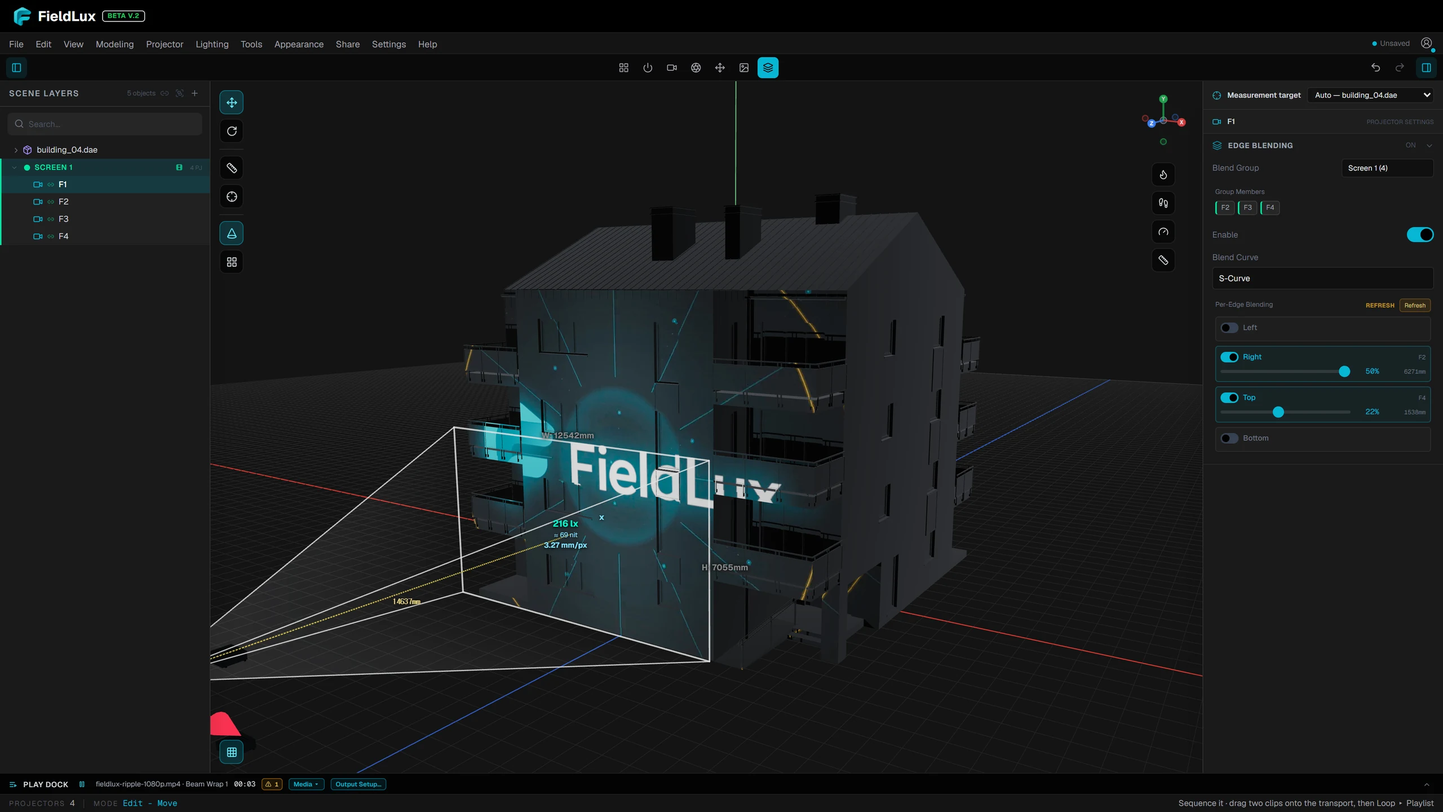
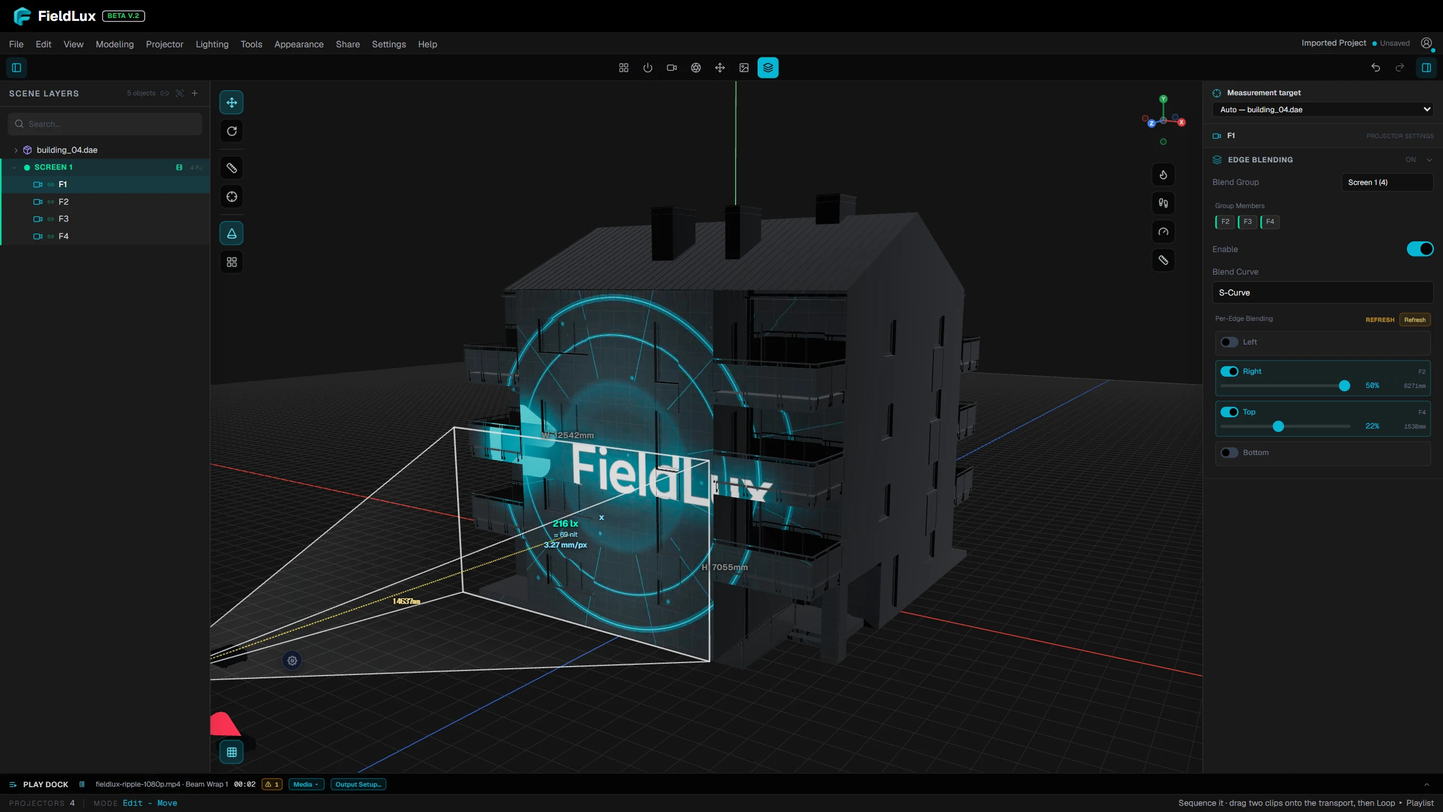
media(site): retake every app screenshot; fix 18 how-to steps from a fresh review
Screenshots
- All twelve were retaken on the current app build with the same demo
  scene, camera and 2560x1440 framing as the September set, on a real GPU.
- What changed on screen: Lock position replaces Lock Transform, the
  Placement Tool says Place projectors, the project name sits in the menu
  bar, the Play Dock console shows the 1 Outputs to 6 Show workflow row,
  the Heatmap panel has its legend key and the 13pt distribution card, and
  the Norm ramp marks the 0.9x to 1.1x band.
- The heatmap values shot moves F1 0.5 m so all 13 probes land on the
  facade; the card it shows (U 0.79, Correction Required) is the app's own
  reading. Panel crops are now 512 px wide; width and height match.
- Alt text follows the new images (edge blend 50 and 22 percent, the Play
  Dock workflow steps, the model settings, the distribution card).

How-to chapters (each claim re-checked against the app code)
- 01 sign-up flow; 02 up-axis toast; 03 scale needs Enter, the import
  already opens edit mode (Tab leaves it), Shift+click adds lines, typed
  lengths add a point and a second Enter ends the run; 06 the Out-of-spec
  card only exists for heads with a catalogue distance range; 07 match
  axes copy the active (last clicked) head; 08 Mirror and Match brightness
  live in mismatch notes.
- 11 scrims and rear-projection presets also change lux; 12 Output Setup is
  on the collapsed strip, Fit canvas to beams sits in the amber note; 13
[…]

diff --git a/videos.html b/videos.html
@@ -112,7 +112,7 @@
             <span class="v3-slot-note">Video in production</span>
           </div>
           <ol class="v3-howto v3-howto--cols">
-            <li>Open app.field-lux.com and sign in with your email and password, or choose Continue with Google. To create an account, choose Create account, select your role and enter the six-digit code from the verification email.</li>
+            <li>Open app.field-lux.com and sign in with your email and password, or choose Continue with Google. To create an account, choose Create account, fill in the form and your role, click Email verification code, then enter the six-digit code from the email.</li>
             <li>The Projects page opens with three tiles: New Project, Open FieldLux Test Scene and Open Play Dock Demo. Saved projects are listed below them. Delete moves a project to Trash, where you can restore it for 30 days.</li>
             <li>Click Open FieldLux Test Scene to get a working four-projector facade without importing anything. The copy is yours; the shared source never changes.</li>
             <li>Click New Project, type a project name when asked and click OK. The blank project is saved under that name and opens in the editor. Press Ctrl+O at any time to come back to Projects.</li>
@@ -136,7 +136,7 @@
           </div>
           <ol class="v3-howto v3-howto--cols">
             <li>Open File, choose Import 3D Model and select one .fbx, .obj, .glb, .dae, .stl or .ply file. For .gltf, include its .bin file and textures in the same picker, or export a single .glb instead.</li>
-            <li>Wait for the import progress modal. A toast reports how the unit was detected and, if the up axis was ambiguous, which one was used.</li>
+            <li>Wait for the import progress modal. A toast reports how the unit was detected and, if the file does not state its up axis, reminds you to check Up axis.</li>
             <li>The model keeps the coordinates it was authored with and is selected. In the Inspector, open 3D Model to check File, Size, Vertices, Source unit and Dimensions.</li>
             <li>If the model lies on its side, open Source Orientation and click Z-up (Blender, 3ds Max) or X-up. Click Center on bbox under Origin to centre it on the scene origin, standing on the ground grid.</li>
           </ol>
@@ -159,11 +159,11 @@
           </div>
           <ol class="v3-howto v3-howto--cols">
             <li>Open File, choose Import Floor Plan and add a .dwg, .dxf, PDF, PNG or JPG. A DWG is converted in the browser, and a multi-sheet drawing asks which sheet you want.</li>
-            <li>In Set the scale, click Use this to accept the unit read from the file, or click two points a known distance apart and type the real length. For an image, type its overall width or height; for a PDF you can also pick 1:50, 1:100 or 1:200.</li>
+            <li>In Set the scale, click Use this to accept the unit read from the file, or click two points a known distance apart, type the real length and press Enter. For an image, type its overall width or height and press Enter; for a PDF you can also pick 1:50, 1:100 or 1:200.</li>
             <li>Click Import as reference lines. The plan appears in 3D as locked reference lines. For an image or PDF, click Place in 3D scene instead; it lands on the ground at the size you typed.</li>
-            <li>Select the drawing and press Tab (Modeling &gt; Edit Linework). Press 2 to select lines, click the walls you want, then click Trace selected to my sketch in the Build group.</li>
+            <li>The import opens the drawing in edit mode (later, select it and press Tab, or choose Modeling &gt; Edit Linework). Press 2, Shift+click the walls you want, then click Trace selected to my sketch in the Build group.</li>
             <li>With the traced lines selected, set Wall height and Wall thickness in the Inspector's Cleanup section, press W, then Enter. The lines rise into walls that receive projector light and cast shadows.</li>
-            <li>To work without a drawing, open Modeling and choose New Sketch. Press 3 for the Draw tool, click to place points, type a length such as 5m while drawing, press Enter to finish the run, then press W and Enter to raise the walls.</li>
+            <li>To work without a drawing, open Modeling and choose New Sketch; the Draw tool is already on. Click to place points, type a length such as 5m and press Enter to add that point, press Enter again to finish the run, then press W and Enter to raise the walls.</li>
           </ol>
           <p class="v3-howto-sees"><strong>You will see:</strong> a full-screen Import Floor Plan overlay with a scale chip, then a linework row in Scene Layers; in edit mode the top strip becomes the Modelling tools toolbar (Select, Draw, Modify, Cleanup, Build) and the prompt strip at the bottom describes the next click. Walls that render black are facing away: select them and click Modeling &gt; Flip Normals.</p>
         </article>
@@ -240,7 +240,7 @@
             <li>At the bottom of Optics, drag V Shift and H Shift to move the image without tilting the projector. The limits are the lens's own. Click Reset Shift to Home to return.</li>
             <li>Use Projector Controls at the top of the panel to switch Power or Beam Preview off, or click Lock position so the projector cannot be moved.</li>
           </ol>
-          <p class="v3-howto-sees"><strong>You will see:</strong> a red, green and blue gizmo on the projector, the beam frustum and its W and H labels moving on the surface, and the Optics readouts changing on every commit. A head placed outside its catalogue throw range gets an amber Out-of-spec diagnostic model card with struck-through values.</p>
+          <p class="v3-howto-sees"><strong>You will see:</strong> a red, green and blue gizmo on the projector, the beam frustum and its W and H labels moving on the surface, and the Optics readouts changing on every commit. A head whose catalogue lists a distance range, such as the Epson EB-800F, gets an amber Out-of-spec diagnostic model card with struck-through values when placed outside it.</p>
         </article>
       </div>
     </section>
@@ -262,7 +262,7 @@
             <li>Choose Linear, Circular or Symmetry. For Linear, set Count, Spacing, Axis and whether the selected projector is First, Center or Last. For Circular, set Count, Radius, Arc and Aim. For Symmetry, set the Mirror axis, Plane and Gap.</li>
             <li>Keep Live ghost preview ticked. Ghost projectors appear in the 3D view and in the Coordinate Table, which lists X, Y and Z for every unit.</li>
             <li>Click Place projectors to create real, individually editable projectors, or Start Live to keep the copies linked as an array that follows the source. A Circular ring on the default Group center pivot follows its Array Pivot node instead. Bake a live array later with Bake array in the Inspector's Array section.</li>
-            <li>To align heads to each other, Ctrl+Click two or more projectors, click Show projector match axes in the tool rail, and click X, Y, Z or XYZ under Move or Rotate.</li>
+            <li>To align heads to each other, Ctrl+Click two or more projectors, clicking the reference head last, then click Show projector match axes in the tool rail and X, Y, Z or XYZ under Move or Rotate.</li>
           </ol>
           <p class="v3-howto-sees"><strong>You will see:</strong> ghost projectors and a Coordinate Table in the tool window, then the new projectors in Scene Layers. Two or more placed heads are put in a blend group automatically. Each live copy shows an Array section marked Copy in the Inspector, with Position set to Follows array and Equipment set to Same as source; set either to Own to change that copy alone.</p>
         </article>
@@ -286,7 +286,7 @@
             <li>Select one member and scroll the Inspector to Edge Blending. Switch Enable on; this runs Auto-Blend for the group.</li>
             <li>Auto-Blend measures where the beams overlap on the surface and turns on the matching edges, Left, Right, Top or Bottom, with their overlap percentages and the partner's name. Click Auto-Blend to run it again.</li>
             <li>Drag an edge slider to adjust the feather from 0 to 50 percent; the readout shows percent and the feather width in your display unit. Pick a Blend Curve: Linear, Gamma 2.2 or S-Curve.</li>
-            <li>If you move a projector afterwards, the Stale badge appears. Click Recalculate. Use Mirror to copy your feather width to the partner, or Match brightness to equalise the two heads.</li>
+            <li>If you move a projector afterwards, the Stale badge appears. Click Recalculate. When an amber note on an edge card flags a feather or brightness mismatch, click its Mirror or Match brightness button.</li>
           </ol>
           <p class="v3-howto-sees"><strong>You will see:</strong> four edge cards, with enabled edges turning cyan, and a soft feather across the overlap in the 3D view instead of a doubled bright band. Measured lux stays pre-blend and represents each head at full white.</p>
         </article>
@@ -359,7 +359,7 @@
           </div>
           <ol class="v3-howto v3-howto--cols">
             <li>Select the surface or model, open Appearance and choose Material. In the floating Material window, choose a Library preset such as White Wall, Concrete, Screen/Fabric, Rear Projection or White Scrim.</li>
-            <li>Under Surface set Type, Base color and Glossiness. Under Brightness Response read Reflectance and set Screen gain. These change the Luminance map and the cd/m² readouts only; measured lux never moves. The exception is the Mirror type, which reflects beams onto other surfaces and adds lux where the reflection lands.</li>
+            <li>Under Surface set Type, Base color and Glossiness. Under Brightness Response read Reflectance and set Screen gain. These change the Luminance map and the cd/m² readouts only, with two exceptions that change measured lux: the Mirror type reflects beams onto other surfaces, and see-through presets such as White Scrim and Rear Projection pass part of the beam to the surfaces behind them.</li>
             <li>Click Appearance again. Under Ambient Light pick a preset such as Venue (house lights) or Full Blackout, or type a lux value.</li>
             <li>Read the contrast line below it. FieldLux shows a verdict from Optimal (Full Blackout) to Not viable, plus the CR n:1 ratio calculated as peak projector lux plus ambient, divided by ambient.</li>
             <li>To see the venue lit at that ambient level, click View, then Ambient Light Preview. For a site photo, raise Dimmer in the photo's Inspector section to darken the photo behind the projection.</li>
@@ -384,14 +384,14 @@
             <span class="v3-slot-note">Video in production</span>
           </div>
           <ol class="v3-howto v3-howto--cols">
-            <li>Aim every projector at its wall, floor or model, then choose Output Setup on the Play Dock strip.</li>
+            <li>Aim every projector at its wall, floor or model, then choose Output Setup on the collapsed Play Dock strip. In an open console, the same sheet is Detect surfaces at step 2.</li>
             <li>Under Regions, where your beams land, click a tile to include or skip it, drag to reorder, shift-drag to merge. Choose Auto, One canvas or My groups, and click Rescan after re-aiming. Under Outputs check each projector's region, pick a Source video, then click Apply Setup.</li>
             <li>The console stays open after Apply Setup (otherwise click the Play Dock strip): the workflow steps 1 Outputs to 6 Show along the top, the outputs or surfaces list on the left, the mapping editor in the centre, inspector tabs on the right and the transport at the bottom.</li>
             <li>Choose Media in the header. Drag a built-in loop from Patterns, or one of your uploads from Library, onto a wall in the 3D view or the transport bar. Choose Library to open the full Media Library and upload images or video, with a 1 GB limit per account.</li>
             <li>Press Play, or Space. Open the content chip's menu and click Add clip to build a playlist; use the loop button to cycle Clip, Playlist and Hold. Click Calibration to project a test pattern from every head of the group.</li>
-            <li>In the centre pane, drag the cyan canvas to move the content on the face, drag its corners to resize, or type X, Y, W and H in the Canvas fields. Use Fill face, Fit ratio or Fit canvas to beams.</li>
+            <li>In the centre pane, drag the cyan canvas to move the content on the face, drag its corners to resize, or type X, Y, W and H in the Canvas fields. Use Fill face or Fit ratio, and when a head runs past the canvas, click Fit canvas to beams in the amber note.</li>
           </ol>
-          <p class="v3-howto-sees"><strong>You will see:</strong> an Output Setup sheet with region tiles sized in metres, then a console whose header reads the focused surface, the current step and the slots count, above a workflow row that ticks each finished step. The mapping editor shows a to-scale plan of the face with every head's footprint. Play Dock previews the show in 3D; it does not output to hardware.</p>
+          <p class="v3-howto-sees"><strong>You will see:</strong> an Output Setup sheet with region tiles sized in metres, then a console whose header reads the focused surface, the current step and the slots count, above a workflow row that ticks steps 1 to 4 as you finish them. The mapping editor shows a to-scale plan of the face with every head's footprint. Play Dock previews the show in 3D; it does not output to hardware.</p>
         </article>
       </div>
     </section>
@@ -409,11 +409,11 @@
             <span class="v3-slot-note">Video in production</span>
           </div>
           <ol class="v3-howto v3-howto--cols">
-            <li>Open the Play Dock console, click 4 Soft Edge in the workflow row and pick a surface in the list on the left. From any other step, click Warp &amp; Blend above the mapping editor.</li>
+            <li>Open the Play Dock console, click 4 Soft Edge in the workflow row and pick a surface in the list on the left. From steps 1 to 3, click Warp &amp; Blend above the mapping editor.</li>
             <li>Click a numbered head chip to pick the projector to correct. All shows every head's outline read-only.</li>
             <li>For Corner-pin, drag the four cyan corners to keystone the picture and enable Perspective for a true homography. For Mesh, set the Grid columns and rows, drag the amber interior points and choose Spherize for domes.</li>
             <li>For a Mask, choose New mask and click points in the viewport to draw a feathered polygon, then set Invert and Feather. For Blend, choose Auto-Blend or adjust the left, right, top and bottom sliders, then tune Power, Gamma and Sharpness.</li>
-            <li>Under Calibration, choose grid, crosshair, greyscale or colorbars to display a test pattern on the selected head, or choose All heads for the whole group. Choose None, show content to restore the picture. This is a pattern preview, not an automatic field-calibration solver. Choose Reset to clear the current correction.</li>
+            <li>Under Calibration, choose grid, crosshair, greyscale or colorbars to display a test pattern on the selected head, or choose All heads for the whole group. Choose None, show content to restore the picture. This is a pattern preview, not an automatic field-calibration solver. On the Corner-pin, Mesh or Mask tab, choose Reset to clear that correction.</li>
           </ol>
           <p class="v3-howto-sees"><strong>You will see:</strong> a 2D studio of the head's frame with drag handles, and every corner-pin, mesh warp, mask and soft edge rendering live on the 3D beam. The footer reminds you that measurements never move: warp and blend change the picture, not the lux.</p>
         </article>
@@ -436,7 +436,7 @@
           </div>
           <ol class="v3-howto v3-howto--cols">
             <li>Click Lighting, then a type under Add Fixture: Moving Head Spot, Moving Head Wash, Moving Head Beam, LED PAR / Static Wash, Profile / Ellipsoidal, Fresnel / PC, Flood / Cyc / Blinder or Strobe / Flash. The fixture appears, selected, and the Inspector switches to Light Settings.</li>
-            <li>In the Fixture section pick a source: Quick Type, Catalog (29 datasheet classes), Library, GDTF / MVR (drop a .gdtf for this fixture or a .mvr for the whole rig) or Manual. In Photometrics enter Output in lumens and Beam Angle; read Peak intensity and the lux at the reference distance, both marked estimate.</li>
+            <li>In the Fixture section pick a source: Quick Type, Catalog (29 datasheet classes), Library, GDTF / MVR (click Import .gdtf or .mvr and pick a .gdtf for this fixture or an .mvr for the whole rig) or Manual. In Photometrics enter Output in lumens and Beam Angle; read Peak intensity and the lux at the reference distance, both marked estimate.</li>
             <li>In Beam Preview switch on Beam visible and Light + shadows. Click Import .ies / .ldt to load the manufacturer's photometry. Aim with Pan, Tilt and Dimmer under Position &amp; Aim, or drag the aim handle in 3D.</li>
             <li>Reopen Lighting and click Save Selected Fixture. It is listed under My Fixtures in every project you open in this browser.</li>
             <li>Expand Working Plane (Illuminance), set Plane height and switch on Show isolux in 3D. Read Average, Minimum, Maximum and Uniformity U0, and pick a Target profile for a pass or fail judgment. Under Looks (cues) type a name and click Save look; under Fixture schedule (BOM) click Copy schedule (CSV).</li>
@@ -465,7 +465,7 @@
             <li>Adjust Wind, Direction, Gust and Ventilation to move and clear the cloud. Pick Quality (Low, Medium or High) and Beam visibility.</li>
             <li>Orbit the scene. Projector and fixture beams now glow in the air and projected content is carried through the fog.</li>
           </ol>
-          <p class="v3-howto-sees"><strong>You will see:</strong> a plume from the nozzle, visible light shafts from every projector and fixture, and haze-attenuated walls. Measured lux does not change; the "with fog (est.)" readout is clearly marked as an estimate.</p>
+          <p class="v3-howto-sees"><strong>You will see:</strong> a plume from the nozzle, visible light shafts from up to four projectors and four fixtures (the brightest and nearest to the camera), and haze-attenuated walls. Measured lux does not change; the "with fog (est.)" readout is clearly marked as an estimate.</p>
         </article>
       </div>
     </section>
@@ -487,7 +487,7 @@
           <ol class="v3-howto v3-howto--cols">
             <li>Press Ctrl+S or open File and choose Save. A project started with New Project is already in the cloud under its name. The chip at the right end of the menu bar reads Saving while it works, then the Unsaved dot disappears. Click the project name beside it to rename the project, or choose Save As to name a copy.</li>
             <li>Click Settings and drag the Auto Save slider between 1 and 30 minutes. While the scene is dirty, a cloud version is written at that interval and a local draft is kept in the browser.</li>
-            <li>Open File and choose Version history. Hover over a row and choose Restore. The selected version is restored as a new save, so your current state remains in the history.</li>
+            <li>Open File and choose Version history. Hover over an older row, choose Restore and confirm. The selected version is restored as a new save, so your current state remains in the history.</li>
             <li>Open File and choose Export Project File to download an editable .flx.json. On any machine or account, choose Open Project File to load it, then press Ctrl+S to store it in the cloud.</li>
           </ol>
           <p class="v3-howto-sees"><strong>You will see:</strong> toasts reading Saved, Saved as new project or Restored, saved as a new version; a Version history modal listing saves by time with the newest tagged Current; and a downloaded project.flx.json. Imported 3D model binaries are referenced by cloud URL, not embedded in the file. If another tab or device saved the project after you opened it, the chip warns that it changed elsewhere; click it to choose Reload latest, Save as a copy or Overwrite.</p>
@@ -511,9 +511,9 @@
             <li>Open Share and choose Share. In the Cloud Share block, enter a Link label, choose an expiry of 2, 7, 14 or 30 days or Never, and enable Require a password when needed.</li>
             <li>Under What viewers can do, toggle Allow PDF Tech Rider download, Show my measurements and Allow walk mode.</li>
             <li>Click Create Cloud Share. Click Copy next to the URL, or let the recipient scan the QR code under Scan to open. Recipients open a read-only viewer without signing in.</li>
-            <li>For a scene without imported 3D models, the URL Share block packs the whole scene into the link itself; click Generate URL Share and Copy. Nothing is uploaded.</li>
+            <li>For a small scene without imported 3D models, the URL Share block packs the scene into the link itself; click Generate URL Share and Copy. Nothing is uploaded. A large rig needs a Cloud Share.</li>
             <li>To give a colleague's FieldLux account read-only project access, type their email under FieldLux Account Share and click Share. The project appears in their Projects list, read-only.</li>
-            <li>Open Share and choose Share Management to copy, extend, revoke or delete any link. Extensions are available for 2, 7, 14 or 30 days, or permanently.</li>
+            <li>Open Share and choose Share Management to copy, extend or revoke a link; once revoked, a link can be deleted. Extensions are available for 2, 7, 14 or 30 days, or permanently.</li>
           </ol>
           <p class="v3-howto-sees"><strong>You will see:</strong> the generated URL with a Copy button and a QR code, a toast reading Cloud share created, and in Share Management every link grouped as Active or Expired or revoked with its time left. A revoked link tells the recipient the owner revoked it.</p>
         </article>
@@ -537,7 +537,7 @@
             <li>Click File, then Export PDF Tech Rider. The row greys out while the export runs, and a progress toast with a Cancel button may appear for a large rig.</li>
             <li>Open FieldLux_Tech_Rider_date.pdf from your downloads.</li>
           </ol>
-          <p class="v3-howto-sees"><strong>You will see:</strong> page 1 with the viewport capture, a PROJECT SETUP table (projectors, total lumens, target) and a PROJECTOR SETTINGS INDEX, then one page per projector with EQUIPMENT, LENS, POSITION &amp; ORIENTATION, OPTICAL DISTANCES, SURFACE SAMPLING and EDGE BLENDING. A disclaimer band reads that it is a simulation preview, not a field measurement.</p>
+          <p class="v3-howto-sees"><strong>You will see:</strong> page 1 with the viewport capture, a PROJECT SETUP table (projectors, total lumens, target) and a PROJECTOR SETTINGS INDEX, then one page per projector with EQUIPMENT, LENS, POSITION &amp; ORIENTATION, OPTICAL DISTANCES, SURFACE SAMPLING and, for heads in a blend group, EDGE BLENDING. A disclaimer band reads that it is a simulation preview, not a field measurement.</p>
         </article>
       </div>
     </section>
@@ -557,7 +557,7 @@
           <ol class="v3-howto v3-howto--cols">
             <li>Click Settings, then Display Unit to cycle mm, m and ft. Every dimension field and label follows.</li>
             <li>Click View to show or hide the Layers and Inspector panels, switch between the Design (Ctrl+1) and Simulate (Ctrl+2) workspaces, or jump to a camera preset from Top to Free 3D.</li>
-            <li>Press Ctrl+K and type part of any command, for example heat for Toggle Heatmap Overlay or front for the Front view. Enter runs it.</li>
+            <li>Press Ctrl+K and type part of any command, for example toggle heat for Toggle Heatmap Overlay or front for the Front view. Enter runs the highlighted row.</li>
             <li>Press G to walk through the room in first person; Esc leaves walk mode. Press F to frame the selection.</li>
             <li>Press F1 for the Keyboard Shortcuts sheet. Under Settings, set Auto Save, toggle Depth Occlusion and Projector Shadows, and pick the Occlusion Quality.</li>
           </ol>

diff --git a/index.html b/index.html
@@ -171,7 +171,7 @@
             <a class="v3-text-link" href="/videos#ch-02">How to do it: Chapters 02 to 04 <span aria-hidden="true">&#8599;</span></a>
           </div>
           <figure class="v3-media v3-media--facade">
-            <img src="/assets/media/feature-venue.webp" width="2560" height="1440" loading="lazy" alt="The FieldLux editor with an imported building model selected on the ground grid, Scene Layers on the left and the Inspector on the right">
+            <img src="/assets/media/feature-venue.webp" width="2560" height="1440" loading="lazy" alt="The FieldLux editor with an imported building model selected on the ground grid, Scene Layers on the left and its 3D Model settings in the Inspector">
           </figure>
         </article>
         <article class="v3-editorial v3-reveal v3-editorial--flip">
@@ -205,7 +205,7 @@
             <a class="v3-text-link" href="/videos#ch-08">How to do it: Chapter 08 <span aria-hidden="true">&#8599;</span></a>
           </div>
           <figure class="v3-media v3-media--facade">
-            <img src="/assets/media/feature-edge-blend.webp" width="2560" height="1440" loading="lazy" alt="The Edge Blending section of the Inspector with Right and Top edges enabled at 58 and 22 percent, and a soft seam on the projected facade">
+            <img src="/assets/media/feature-edge-blend.webp" width="2560" height="1440" loading="lazy" alt="The Edge Blending section of the Inspector with Right and Top edges enabled at 50 and 22 percent, and a soft seam on the projected facade">
           </figure>
         </article>
         <article class="v3-editorial v3-reveal">
@@ -217,7 +217,7 @@
             <a class="v3-text-link" href="/videos#ch-09">How to do it: Chapters 09 to 11 <span aria-hidden="true">&#8599;</span></a>
           </div>
           <figure class="v3-media v3-media--facade">
-            <img src="/assets/media/editor-heatmap-values.webp" width="2560" height="1440" loading="lazy" alt="The FieldLux editor with the Heatmap overlay on, the Heatmap panel in Absolute mode, and 13-point probe values drawn across a projected facade">
+            <img src="/assets/media/editor-heatmap-values.webp" width="2560" height="1440" loading="lazy" alt="The FieldLux editor with the Heatmap overlay on, the Heatmap panel in Absolute mode with its 13pt distribution card, and 13-point probe values drawn across a projected facade">
           </figure>
         </article>
         <article class="v3-editorial v3-reveal v3-editorial--flip">
@@ -229,7 +229,7 @@
             <a class="v3-text-link" href="/videos#ch-12">How to do it: Chapters 12 and 13 <span aria-hidden="true">&#8599;</span></a>
           </div>
           <figure class="v3-media v3-media--facade">
-            <img src="/assets/media/feature-play-dock.webp" width="2560" height="1440" loading="lazy" alt="The Play Dock console open along the bottom of the editor with the screens rail, the mapping editor and the transport bar">
+            <img src="/assets/media/feature-play-dock.webp" width="2560" height="1440" loading="lazy" alt="The Play Dock console open along the bottom of the editor with the workflow steps, the outputs list, the mapping editor and the transport bar">
           </figure>
         </article>
         <article class="v3-editorial v3-reveal">

diff --git a/measurement.html b/measurement.html
@@ -77,7 +77,7 @@
         </div>
 
         <figure class="v3-media">
-          <img src="/assets/media/editor-heatmap-values.webp" width="2560" height="1440" alt="The FieldLux editor with the Heatmap overlay on, the Heatmap panel in Absolute mode, and the 13pt Diagnostic probe values drawn across a projected facade">
+          <img src="/assets/media/editor-heatmap-values.webp" width="2560" height="1440" alt="The FieldLux editor with the Heatmap overlay on, the Heatmap panel in Absolute mode with its 13pt distribution card, and the 13pt Diagnostic probe values drawn across a projected facade">
           <figcaption>Turn on the Heatmap overlay, press Values, and read the 13pt Diagnostic on the target.</figcaption>
         </figure>
       </div>
@@ -119,7 +119,7 @@
 
         <div class="v3-grid">
           <figure class="v3-card v3-media">
-            <img src="/assets/media/heatmap-panel-absolute.png" width="544" height="516" alt="FieldLux Heatmap panel with Surface Lux and Absolute selected, a 0 to 875 lux ramp and the Max lux field">
+            <img src="/assets/media/heatmap-panel-absolute.png" width="512" height="524" alt="FieldLux Heatmap panel with Surface Lux and Absolute selected, a 0 to 875 lux ramp and the Max lux field">
             <figcaption>
               <span class="v3-kicker">ABSOLUTE</span>
               <span>Shows the estimated value on a fixed scale you set with Max lux. Use it when <strong>the number itself matters.</strong></span>
@@ -127,7 +127,7 @@
           </figure>
 
           <figure class="v3-card v3-media">
-            <img src="/assets/media/heatmap-panel-norm.png" width="544" height="516" alt="FieldLux Heatmap panel with Norm selected, a 0.0x to 2.0x ramp and the Ref lux field">
+            <img src="/assets/media/heatmap-panel-norm.png" width="512" height="524" alt="FieldLux Heatmap panel with Norm selected, a 0.0x to 2.0x ramp with the 0.9x to 1.1x band marked, and the Ref lux field">
             <figcaption>
               <span class="v3-kicker">NORM</span>
               <span>Compares every point with the Ref lux value. <strong>1.0x is the reference.</strong></span>
@@ -135,7 +135,7 @@
           </figure>
 
           <figure class="v3-card v3-media">
-            <img src="/assets/media/heatmap-panel-deviation.png" width="544" height="576" alt="FieldLux Heatmap panel with Deviation selected, a minus 20 to plus 20 percent ramp and the Scale buttons">
+            <img src="/assets/media/heatmap-panel-deviation.png" width="512" height="584" alt="FieldLux Heatmap panel with Deviation selected, a minus 20 to plus 20 percent ramp and the Scale buttons">
             <figcaption>
               <span class="v3-kicker">DEVIATION</span>
               <span>Shows the percentage above or below the reference at plus or minus 10, 20 or 30, making <strong>uneven coverage easier to spot.</strong></span>
